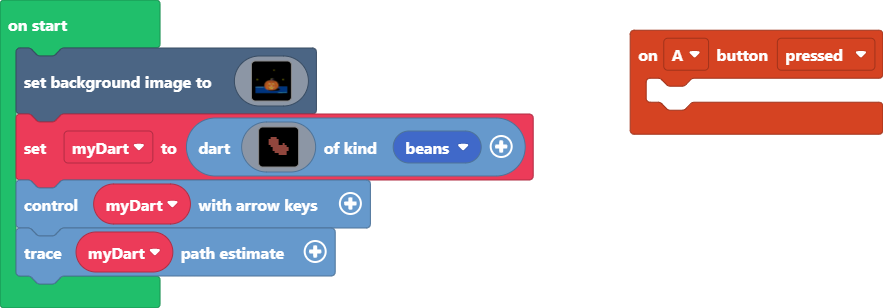
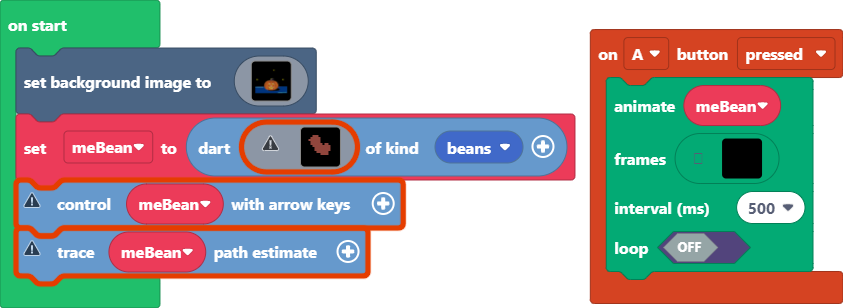
Update main.blocks, main.ts

diff --git a/main.ts b/main.ts
@@ -2,8 +2,31 @@ namespace SpriteKind {
     export const beans = SpriteKind.create()
 }
 controller.A.onEvent(ControllerButtonEvent.Pressed, function () {
-	
+    animation.runImageAnimation(
+    meBean,
+    [img`
+        . . . . . . . . . . . . . . . . 
+        . . . . . . . . . . . . . . . . 
+        . . . . . . . . . . . . . . . . 
+        . . . . . . . . . . . . . . . . 
+        . . . . . . . . . . . . . . . . 
+        . . . . . . . . . . . . . . . . 
+        . . . . . . . . . . . . . . . . 
+        . . . . . . . . . . . . . . . . 
+        . . . . . . . . . . . . . . . . 
+        . . . . . . . . . . . . . . . . 
+        . . . . . . . . . . . . . . . . 
+        . . . . . . . . . . . . . . . . 
+        . . . . . . . . . . . . . . . . 
+        . . . . . . . . . . . . . . . . 
+        . . . . . . . . . . . . . . . . 
+        . . . . . . . . . . . . . . . . 
+        `],
+    500,
+    false
+    )
 })
+let meBean: Sprite = null
 scene.setBackgroundImage(img`
     ffffffffffffffffffffffffffffffffffffffffffffffffffffffffffffffffffffffffffffffffffffffffffffffffffffffffffffffffffffffffffffffffffffffffffffffffffffffffffffffff
     ffffffffffffffffffffffffffffffffffffffffffffffffffffffffffffffffffffffffffffffffffffffffffffffffffffffffffffffffffffffffffffffffffffffffffffffffffffffffffffffff
@@ -126,15 +149,15 @@ scene.setBackgroundImage(img`
     8888888888888888888888888888888888888888888888888888888888888888888888888888888888888888888888888888888888888888889999999999999999999999966666666666666688888888
     8888888888888888888888888888888888888888888888888888888888888888888888888888888888888888888888888888888888888888888888888888888888888888888888888888888888888888
     `)
-let myDart = darts.create(img`
-    . . . . . . . . . . . . . . . . 
+meBean = darts.create(img`
     . . . . . . . . . . . . . . . . 
     . . . . . . . . . . . . . . . . 
     . . . . e e e . . . . . . . . . 
     . . . e e e e e . . . . . . . . 
+    . . e e e e e e . . . . . . . . 
     . . . e e e e e . . . . . . . . 
-    . . . e e e e e . . e . . . . . 
-    . . . . e e e e e e e e . . . . 
+    . . . e e e e e e . e e . . . . 
+    . . . . e e e e e e e e e . . . 
     . . . . . e e e e e e e e . . . 
     . . . . . e e e e e e e e . . . 
     . . . . . . e e e e e e . . . . 
@@ -144,5 +167,5 @@ let myDart = darts.create(img`
     . . . . . . . . . . . . . . . . 
     . . . . . . . . . . . . . . . . 
     `, SpriteKind.beans)
-myDart.controlWithArrowKeys()
-myDart.setTrace()
+meBean.controlWithArrowKeys()
+meBean.setTrace()
